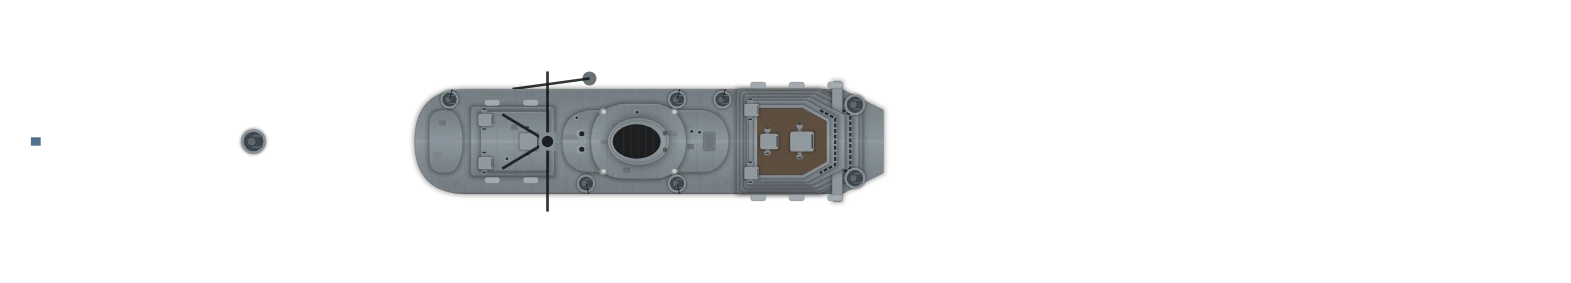
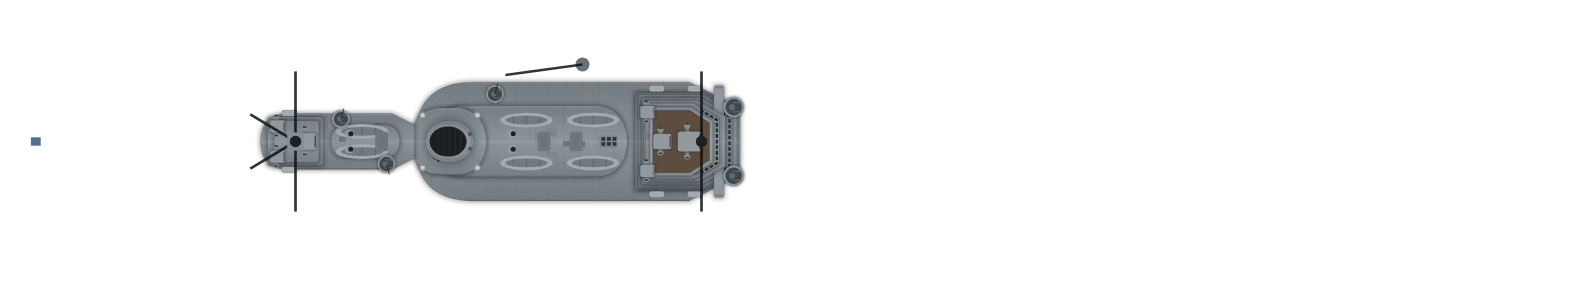
Nelson laid out after Andrew Arthur's plan: turrets at 43, 22 and 0 m, the tower bridge abaft X, funnel at -48 m, tripod mainmast at -70 m, deckhouse broad forward and narrow aft, boats on it, secondary and AA guns moved to suit
fit_audit 137 standard-fit faults (from 139). aux_test, review_test pass.

Claude-Session: https://claude.ai/code/session_0112riLGm4nSjrgsGiYL5DUG

Changed region(s): [[0.1248, 0.1979, 0.5614, 0.735], [0.2495, 0.6502, 0.2807, 0.6784]]

diff --git a/index.html b/index.html
@@ -437,8 +437,8 @@ const DESIGN_LIST = [
     p: { bow: .36, run: .22, stern: 't', tw: .45, deck: 'teak', house: [[-2, 64, 16]], sup: [[30, 20, 15, 5], [-30, 16, 11, 3]], fun: [[10, 4, 3.2], [-12, 4, 3.2]], mast: [[22, 't'], [-22, 't']], boats: [[-1, 3]] },
     slots: [sl('H', 66, 0, FWD, 'g381t'), sl('H', 50, 0, FWD, 'g381t'), sl('H', -54, 0, AFT, 'g381t'), sl('H', -70, 0, AFT, 'g381t'), ...pair('M', 30, 12.6, 'g127'), ...pair('M', 18, 13.6, 'g127'), ...pair('M', -20, 13.6, 'g127'), ...pair('M', -34, 12.6, 'g127'), ...pair('A', 41, 10, 'aa40'), ...pair('A', -1, 13.6, 'aa40'), ...pair('A', -44, 10.4, 'aa40')] },
   { id: 'bb_nelson', cls: 'bb', yard: 'clydemouth', dn: 'Rodmoor', model: 'Nelson-class battleship', year: 1927, era: 1, L: 216.4, B: 32.3, t: 33300, kn: 23, td: 800, armor: 356, crew: 1314, price: 120000,
-    p: { outline: [[108.2, 0.58], [100.33, 3.37], [89.91, 6.31], [83.26, 7.85], [76.83, 9.16], [66.85, 10.91], [53.77, 12.78], [39.91, 14.31], [22.28, 15.74], [16.85, 16.07], [8.31, 16.3], [-35.03, 16.3], [-36.25, 16.19], [-40.46, 16.19], [-49.67, 15.85], [-60.2, 14.67], [-67.07, 13.69], [-77.49, 11.84], [-84.48, 10.3], [-89.8, 8.89], [-94.34, 7.47], [-99.44, 5.55], [-105.43, 2.69], [-108.2, 0.9]], deck: 'teak', school: 'tower', house: [[-19.5, 67, 15]], sup: [[2, 18, 15, 6], [-39, 12, 10, 2]], fun: [[-21, 4.4, 3.4]], mast: [[-34, 't']], boats: [[-12, 2]], crane: [[-28, -9]], tubs: [[-76, 0, 1.8]] },
-    slots: [sl('H', 62, 0, FWD, 'g406'), sl('H', 44, 0, FWD, 'g406'), Object.assign(sl('H', 26, 0, FWD, 'g406'), { low: true }), ...[...pair('M', -57, 11.9, 'g152t'), ...pair('M', -66, 10.2, 'g152t'), ...pair('M', -73, 9.2, 'g152t')].map(q => Object.assign(q, { low: true })), ...pair('S', 10, 13, 'g102'), ...pair('S', -40, 10.5, 'g102'), ...pair('A', -6, 11, 'aa40'), ...pair('A', -22, 10, 'aa40')] },
+    p: { outline: [[108.2, 0.58], [100.33, 3.37], [89.91, 6.31], [83.26, 7.85], [76.83, 9.16], [66.85, 10.91], [53.77, 12.78], [39.91, 14.31], [22.28, 15.74], [16.85, 16.07], [8.31, 16.3], [-35.03, 16.3], [-36.25, 16.19], [-40.46, 16.19], [-49.67, 15.85], [-60.2, 14.67], [-67.07, 13.69], [-77.49, 11.84], [-84.48, 10.3], [-89.8, 8.89], [-94.34, 7.47], [-99.44, 5.55], [-105.43, 2.69], [-108.2, 0.9]], deck: 'teak', school: 'tower', house: [[-30, 46, 17], [-64, 22, 8]], sup: [[-14, 15, 14, 6], [-70, 8, 7, 2]], fun: [[-48, 3.4, 3]], mast: [[-12, 'p'], [-70, 't']], boats: [[-40, 2]], crane: [[-29, -11]] },
+    slots: [sl('H', 43, 0, FWD, 'g406'), sl('H', 22, 0, FWD, 'g406'), Object.assign(sl('H', 0, 0, FWD, 'g406'), { low: true }), ...[...pair('M', -57, 11.9, 'g152t'), ...pair('M', -66, 10.2, 'g152t'), ...pair('M', -73, 9.2, 'g152t')].map(q => Object.assign(q, { low: true })), ...pair('S', -36, 6, 'g102'), ...pair('S', -46, 6.5, 'g102'), ...pair('A', -25, 7.5, 'aa40'), ...pair('A', -82, 5, 'aa40')] },
   { id: 'bb_scharnhorst', cls: 'bb', name: 'Fast Battleship', yard: 'ostsee', dn: 'Markgraf', model: 'Scharnhorst-class battleship', year: 1938, era: 1, L: 234.9, B: 30, t: 32100, kn: 31, td: 950, armor: 350, crew: 1669, price: 105000,
     p: { bow: .36, run: .22, stern: 'c', deck: 'teak', house: [[-2, 66, 15]], sup: [[32, 20, 14, 5], [-30, 16, 11, 3]], fun: [[7, 4.6, 3.6]], mast: [[26, 't'], [-22, 'p']], boats: [[-18, 2]], cat: [[-8, 0]], crane: [[-13, -9.5], [-13, 9.5]] },
     slots: [sl('H', 68, 0, FWD, 'g283'), sl('H', 52, 0, FWD, 'g283'), sl('H', -58, 0, AFT, 'g283'), ...pair('M', 24, 12.2, 'g150t'), ...pair('M', -24, 12.4, 'g150t'), ...pair('M', 8, 13.2, 'g150s'), ...pair('S', -4, 13.2, 'g102t'), ...pair('S', -38, 11.4, 'g102t'), ...pair('A', 40, 9.6, 'aa40'), ...pair('A', -46, 10, 'aa40'), ...pair('M', 16, 12.8, 'g150s')] },   // her model had four single 150s, not two: the second pair is added last, so saved ships' fits keep their places

diff --git a/src/game.html b/src/game.html
@@ -434,8 +434,8 @@ const DESIGN_LIST = [
     p: { bow: .36, run: .22, stern: 't', tw: .45, deck: 'teak', house: [[-2, 64, 16]], sup: [[30, 20, 15, 5], [-30, 16, 11, 3]], fun: [[10, 4, 3.2], [-12, 4, 3.2]], mast: [[22, 't'], [-22, 't']], boats: [[-1, 3]] },
     slots: [sl('H', 66, 0, FWD, 'g381t'), sl('H', 50, 0, FWD, 'g381t'), sl('H', -54, 0, AFT, 'g381t'), sl('H', -70, 0, AFT, 'g381t'), ...pair('M', 30, 12.6, 'g127'), ...pair('M', 18, 13.6, 'g127'), ...pair('M', -20, 13.6, 'g127'), ...pair('M', -34, 12.6, 'g127'), ...pair('A', 41, 10, 'aa40'), ...pair('A', -1, 13.6, 'aa40'), ...pair('A', -44, 10.4, 'aa40')] },
   { id: 'bb_nelson', cls: 'bb', yard: 'clydemouth', dn: 'Rodmoor', model: 'Nelson-class battleship', year: 1927, era: 1, L: 216.4, B: 32.3, t: 33300, kn: 23, td: 800, armor: 356, crew: 1314, price: 120000,
-    p: { outline: [[108.2, 0.58], [100.33, 3.37], [89.91, 6.31], [83.26, 7.85], [76.83, 9.16], [66.85, 10.91], [53.77, 12.78], [39.91, 14.31], [22.28, 15.74], [16.85, 16.07], [8.31, 16.3], [-35.03, 16.3], [-36.25, 16.19], [-40.46, 16.19], [-49.67, 15.85], [-60.2, 14.67], [-67.07, 13.69], [-77.49, 11.84], [-84.48, 10.3], [-89.8, 8.89], [-94.34, 7.47], [-99.44, 5.55], [-105.43, 2.69], [-108.2, 0.9]], deck: 'teak', school: 'tower', house: [[-19.5, 67, 15]], sup: [[2, 18, 15, 6], [-39, 12, 10, 2]], fun: [[-21, 4.4, 3.4]], mast: [[-34, 't']], boats: [[-12, 2]], crane: [[-28, -9]], tubs: [[-76, 0, 1.8]] },
-    slots: [sl('H', 62, 0, FWD, 'g406'), sl('H', 44, 0, FWD, 'g406'), Object.assign(sl('H', 26, 0, FWD, 'g406'), { low: true }), ...[...pair('M', -57, 11.9, 'g152t'), ...pair('M', -66, 10.2, 'g152t'), ...pair('M', -73, 9.2, 'g152t')].map(q => Object.assign(q, { low: true })), ...pair('S', 10, 13, 'g102'), ...pair('S', -40, 10.5, 'g102'), ...pair('A', -6, 11, 'aa40'), ...pair('A', -22, 10, 'aa40')] },
+    p: { outline: [[108.2, 0.58], [100.33, 3.37], [89.91, 6.31], [83.26, 7.85], [76.83, 9.16], [66.85, 10.91], [53.77, 12.78], [39.91, 14.31], [22.28, 15.74], [16.85, 16.07], [8.31, 16.3], [-35.03, 16.3], [-36.25, 16.19], [-40.46, 16.19], [-49.67, 15.85], [-60.2, 14.67], [-67.07, 13.69], [-77.49, 11.84], [-84.48, 10.3], [-89.8, 8.89], [-94.34, 7.47], [-99.44, 5.55], [-105.43, 2.69], [-108.2, 0.9]], deck: 'teak', school: 'tower', house: [[-30, 46, 17], [-64, 22, 8]], sup: [[-14, 15, 14, 6], [-70, 8, 7, 2]], fun: [[-48, 3.4, 3]], mast: [[-12, 'p'], [-70, 't']], boats: [[-40, 2]], crane: [[-29, -11]] },
+    slots: [sl('H', 43, 0, FWD, 'g406'), sl('H', 22, 0, FWD, 'g406'), Object.assign(sl('H', 0, 0, FWD, 'g406'), { low: true }), ...[...pair('M', -57, 11.9, 'g152t'), ...pair('M', -66, 10.2, 'g152t'), ...pair('M', -73, 9.2, 'g152t')].map(q => Object.assign(q, { low: true })), ...pair('S', -36, 6, 'g102'), ...pair('S', -46, 6.5, 'g102'), ...pair('A', -25, 7.5, 'aa40'), ...pair('A', -82, 5, 'aa40')] },
   { id: 'bb_scharnhorst', cls: 'bb', name: 'Fast Battleship', yard: 'ostsee', dn: 'Markgraf', model: 'Scharnhorst-class battleship', year: 1938, era: 1, L: 234.9, B: 30, t: 32100, kn: 31, td: 950, armor: 350, crew: 1669, price: 105000,
     p: { bow: .36, run: .22, stern: 'c', deck: 'teak', house: [[-2, 66, 15]], sup: [[32, 20, 14, 5], [-30, 16, 11, 3]], fun: [[7, 4.6, 3.6]], mast: [[26, 't'], [-22, 'p']], boats: [[-18, 2]], cat: [[-8, 0]], crane: [[-13, -9.5], [-13, 9.5]] },
     slots: [sl('H', 68, 0, FWD, 'g283'), sl('H', 52, 0, FWD, 'g283'), sl('H', -58, 0, AFT, 'g283'), ...pair('M', 24, 12.2, 'g150t'), ...pair('M', -24, 12.4, 'g150t'), ...pair('M', 8, 13.2, 'g150s'), ...pair('S', -4, 13.2, 'g102t'), ...pair('S', -38, 11.4, 'g102t'), ...pair('A', 40, 9.6, 'aa40'), ...pair('A', -46, 10, 'aa40'), ...pair('M', 16, 12.8, 'g150s')] },   // her model had four single 150s, not two: the second pair is added last, so saved ships' fits keep their places
